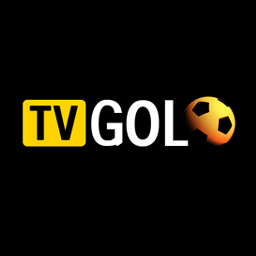
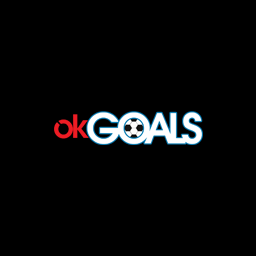
OKGoals v0.2.00
v0.2.00 (17 de Dezembro de 2014):
- Adaptacao ao sucessor OKGoals.com.

Changed region(s): [[0.0625, 0.375, 0.9375, 0.5938]]

diff --git a/plugin.video.tvgolo/default.py b/plugin.video.tvgolo/default.py
@@ -1,6 +1,6 @@
 # -*- coding: utf-8 -*-
 
-""" TVGolo
+""" OKGoals
     2014 fightnight
 """
 
@@ -18,6 +18,7 @@ traducao= selfAddon.getLocalizedString
 tvgolopath = selfAddon.getAddonInfo('path')
 menuescolha = xbmcgui.Dialog().select
 mensagemok = xbmcgui.Dialog().ok
+'''
 if selfAddon.getSetting('dns_unblock') == 'false': MainURL = 'http://www.tvgolo.mobi/'
 else:
 	try:t1 = datetime.datetime.strptime(selfAddon.getSetting("last_dns_unblock"), "%Y-%m-%d %H:%M:%S.%f")
@@ -35,7 +36,8 @@ else:
 		host = selfAddon.getSetting('last_ip')
 		
 	MainURL = 'http://' + host + '/'
-
+'''
+MainURL = 'http://www.okgoals.com/'
 
 
 def horalocal(link):
@@ -44,38 +46,36 @@ def horalocal(link):
 
 def menu_principal():
       #mensagemok(traducao(40000),traducao(40001),traducao(40002))
-      addDir(traducao(40003),MainURL + 'en',2,tvgolopath + art + 'pasta.png',1,True)
-      addDir(traducao(40004),MainURL + 'en',3,tvgolopath + art + 'pasta.png',1,True)
-      addDir(traducao(40005),MainURL + 'en',4,tvgolopath + art + 'pasta.png',1,True)
-      addDir(traducao(40006),MainURL + 'en/goal-of-the-week.php',2,tvgolopath + art + 'pasta.png',1,True)
-      addDir(traducao(40007),MainURL + 'en/previous.php',5,tvgolopath + art + 'pasta.png',1,True)
-      addDir(traducao(40008),MainURL + 'en/comedy-football.php',6,tvgolopath + art + 'pasta.png',1,True)
-      addDir(traducao(40009),MainURL + 'tv.html',9,tvgolopath + art + 'pasta.png',1,True)
+      addDir(traducao(40003),MainURL,2,tvgolopath + art + 'pasta.png',1,True)
+      addDir(traducao(40004),MainURL,3,tvgolopath + art + 'pasta.png',1,True)
+      addDir(traducao(40005),MainURL,4,tvgolopath + art + 'pasta.png',1,True)
+      #addDir(traducao(40006),MainURL + 'en/goal-of-the-week.php',2,tvgolopath + art + 'pasta.png',1,True)
+      addDir(traducao(40007),MainURL + 'seasons-archive.php',5,tvgolopath + art + 'pasta.png',1,True)
+      #addDir(traducao(40008),MainURL + 'en/comedy-football.php',6,tvgolopath + art + 'pasta.png',1,True)
+      #addDir(traducao(40009),MainURL + 'tv.html',9,tvgolopath + art + 'pasta.png',1,True)
       addDir(traducao(40010),MainURL,8,tvgolopath + art + 'pasta.png',1,True)
       xbmc.executebuiltin("Container.SetViewMode(51)")
 
 def listadeligas(url):
       link=abrir_url(url)
       link=link.replace('Portuguese</a>','').replace('English</a>','')
-      ligas=re.compile('<a href="(.+?)" target="_top"><img width=".+?" border="0" high=".+?" src="(.+?)">(.+?)</a>').findall(link)
-      for endereco,thumb,titulo in ligas: addDir(titulo,MainURL + 'en/' + endereco,2,thumb,len(ligas),True)
+      #ligas=re.compile('<a href="(.+?)" target="_top"><img width=".+?" border="0" high=".+?" src="(.+?)">(.+?)</a>').findall(link)
+      ligas=re.compile("""<li class='active'><a href='(.+?)' class="menulinks">.+?alt="(.+?)" src="(.+?)"> (.+?)</span>""").findall(link)
+      for endereco,liga,thumb,country in ligas: addDir('%s (%s)' % (liga.capitalize().title(),country.capitalize().title()),MainURL + endereco,2,thumb,len(ligas),True)
       xbmc.executebuiltin("Container.SetViewMode(51)")
 
 def semanasanteriores(url):
       link=abrir_url(url)
-      anterior=re.compile('</a>[^<]*<a href="([^"]+?)" target="_top">.+?watch previous weeks').findall(link)[0]
+      anterior=re.compile('<a href="([^"]+?)">previous weeks archive').findall(link)[0]
       anterior=anterior.replace('amp;','')
-      request(MainURL + 'en/' + anterior)
+      request(MainURL + anterior)
 
 def epocasanteriores(url):
 	link=abrir_url(url)
 	link=link.replace('amp;','')
-	anteriores=re.compile('<a href="(.+?)"><img src="(.+?)" alt="(.+?)" border="0" width="500" height="100"></a>').findall(link)
-	for endereco,thumb,titulo in anteriores:
-                endereco=endereco.replace('www.tvgolo.com','www.tvgolo.mobi')
-		if 'http://www.tvgolo.mobi/football.php' in endereco:
-			endereco = endereco.replace('http://www.tvgolo.mobi/football.php',MainURL + 'en/')
-		addDir(titulo,endereco,2,thumb,len(anteriores),True)
+	anteriores=re.compile('<a href="([^"]+?)">([^"]+?)</a><BR />').findall(link)
+	for endereco,titulo in anteriores:
+                addDir(titulo,MainURL + endereco,2,'',len(anteriores),True)
 	xbmc.executebuiltin("Container.SetViewMode(501)")
 
 def comedyfootball(url):
@@ -93,8 +93,8 @@ def programacaotv(url):
 def request(url):
       link=abrir_url(url)
       link=clean(link)
-      listagolos=re.compile('<div class="listajogos"><a href="/(.+?)"><img.+?src="(.+?)" />    (.+?)</a></div>').findall(link)
-      for endereco,thumb,titulo in listagolos: addDir(titulo,MainURL + endereco,1,thumb,len(listagolos),False)
+      listagolos=re.compile('<div class="listajogos"><a href="(.+?)"><img.+?src="(.+?)" />    (.+?)</a></div>').findall(link)
+      for endereco,thumb,titulo in listagolos: addDir(titulo,MainURL + endereco,1,MainURL + thumb,len(listagolos),False)
       if re.search('football.php', url) or re.search('page-start', link): paginas(url,link)
       xbmc.executebuiltin("Container.SetViewMode(51)")
 
@@ -105,7 +105,7 @@ def paginas(url,link):
             except: enderecopagina=re.compile('</b><a href="(.+?)">').findall(link)[0]
             valorpagina=int(re.compile('page-start_from_(.+?)_archive.+?.html').findall(enderecopagina)[0])
             pagina=int((valorpagina/30)+1)
-            addDir('[COLOR blue][B]' + traducao(40014) + '[/COLOR] [COLOR white]' + str(pagina) + ' >>[/COLOR][/B]',MainURL + 'en/' + enderecopagina,2,'',1,True)
+            addDir('[COLOR blue][B]' + traducao(40014) + '[/COLOR] [COLOR white]' + str(pagina) + ' >>[/COLOR][/B]',MainURL + enderecopagina,2,'',1,True)
       except: pass
 
 def captura(name,url):
@@ -294,7 +294,7 @@ def captura(name,url):
                          linkescolha=linkescolha.replace('amp;','')
                          link=abrir_url(linkescolha)
                          link=link.replace('\\','')
-                         if re.search('No videos found.',link): ok=mensagemok("TVGolo",'Video not found')
+                         if re.search('No videos found.',link): ok=mensagemok("OKGoals",'Video not found')
                          else:
                                titles=[]
                                ligacao=[]
@@ -371,8 +371,9 @@ def comecarvideo(titulo,url,thumb):
       listitem.setProperty('mimetype', 'video/x-msvideo')
       listitem.setProperty('IsPlayable', 'true')
       dialogWait = xbmcgui.DialogProgress()
-      dialogWait.create('TVGolo', 'A carregar')
+      dialogWait.create('OKGoals', 'A carregar')
       playlist.add(url, listitem)
+      xbmcplugin.setResolvedUrl(int(sys.argv[1]),True,listitem)
       dialogWait.close()
       del dialogWait
       xbmcPlayer = xbmc.Player(xbmc.PLAYER_CORE_AUTO)
@@ -404,7 +405,7 @@ def pesquisa():
             encode=urllib.quote(search)
             if encode=='': pass
             else:
-                  link=abrir_url( MainURL + '/en/search.php?dosearch=yes&search_in_archives=yes&title=' + encode)
+                  link=abrir_url( MainURL + 'search.php?dosearch=yes&search_in_archives=yes&title=' + encode)
                   #horalocal(link)
                   jogos=re.compile('<div style="font-family:Arial, Helvetica, sans-serif; font-size:12px;"><a href="/(.+?)">(.+?)</a></div>').findall(link)
                   for endereco,titulo in jogos: addDir(titulo,MainURL + endereco,1,'',len(jogos),False)
@@ -428,13 +429,13 @@ def abrir_url_tommy(url,referencia):
       mensagemok('TVGolo',str(urllib2.HTTPError(e.url, e.code, "Erro na página.", e.hdrs, e.fp)))
       sys.exit(0)
     except urllib2.URLError, e:
-      mensagemok('TVGolo',"Erro na página.")
+      mensagemok('OKGoals',"Erro na página.")
       sys.exit(0)
 
 def versao_disponivel():
       try:
             link=abrir_url('http://fightnight-xbmc.googlecode.com/svn/addons/fightnight/plugin.video.tvgolo/addon.xml')
-            match=re.compile('name="TVGolo"\r\n       version="(.+?)"\r\n       provider-name="fightnight">').findall(link)[0]
+            match=re.compile('name="OKGoals"\r\n       version="(.+?)"\r\n       provider-name="fightnight">').findall(link)[0]
       except:
             ok = mensagemok('TV Golo',traducao(40026),traducao(40027),'')
             match=traducao(40028)
